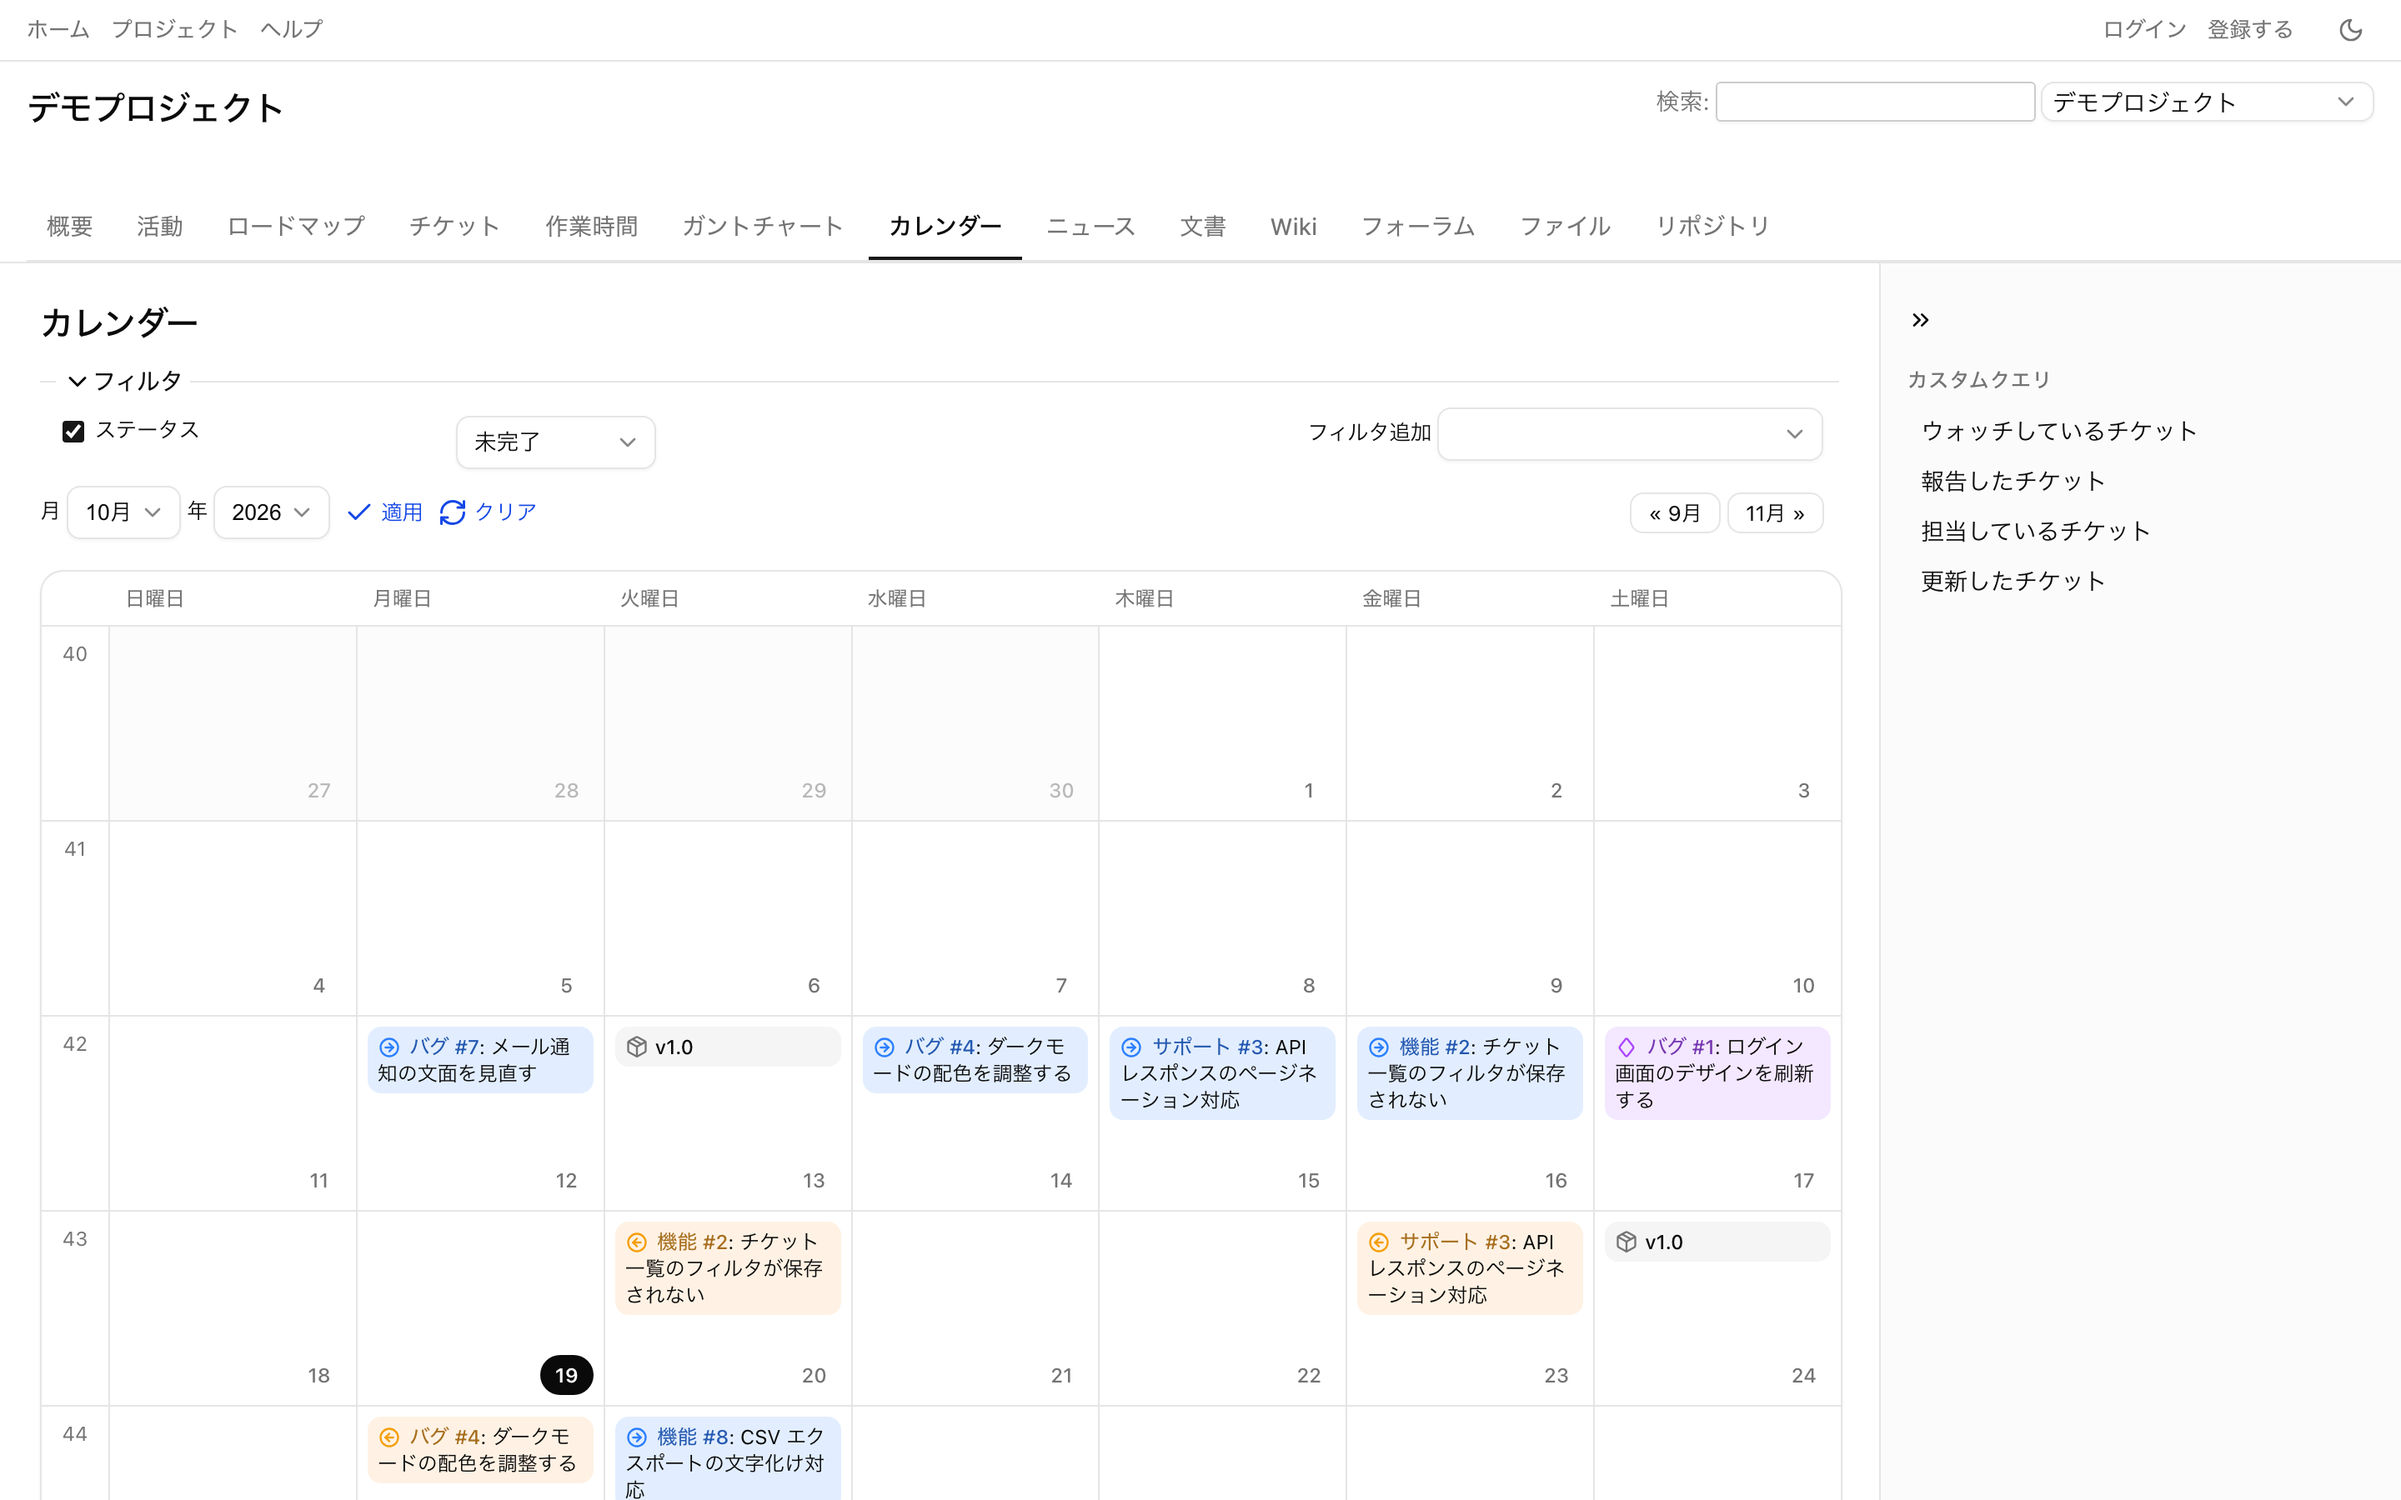
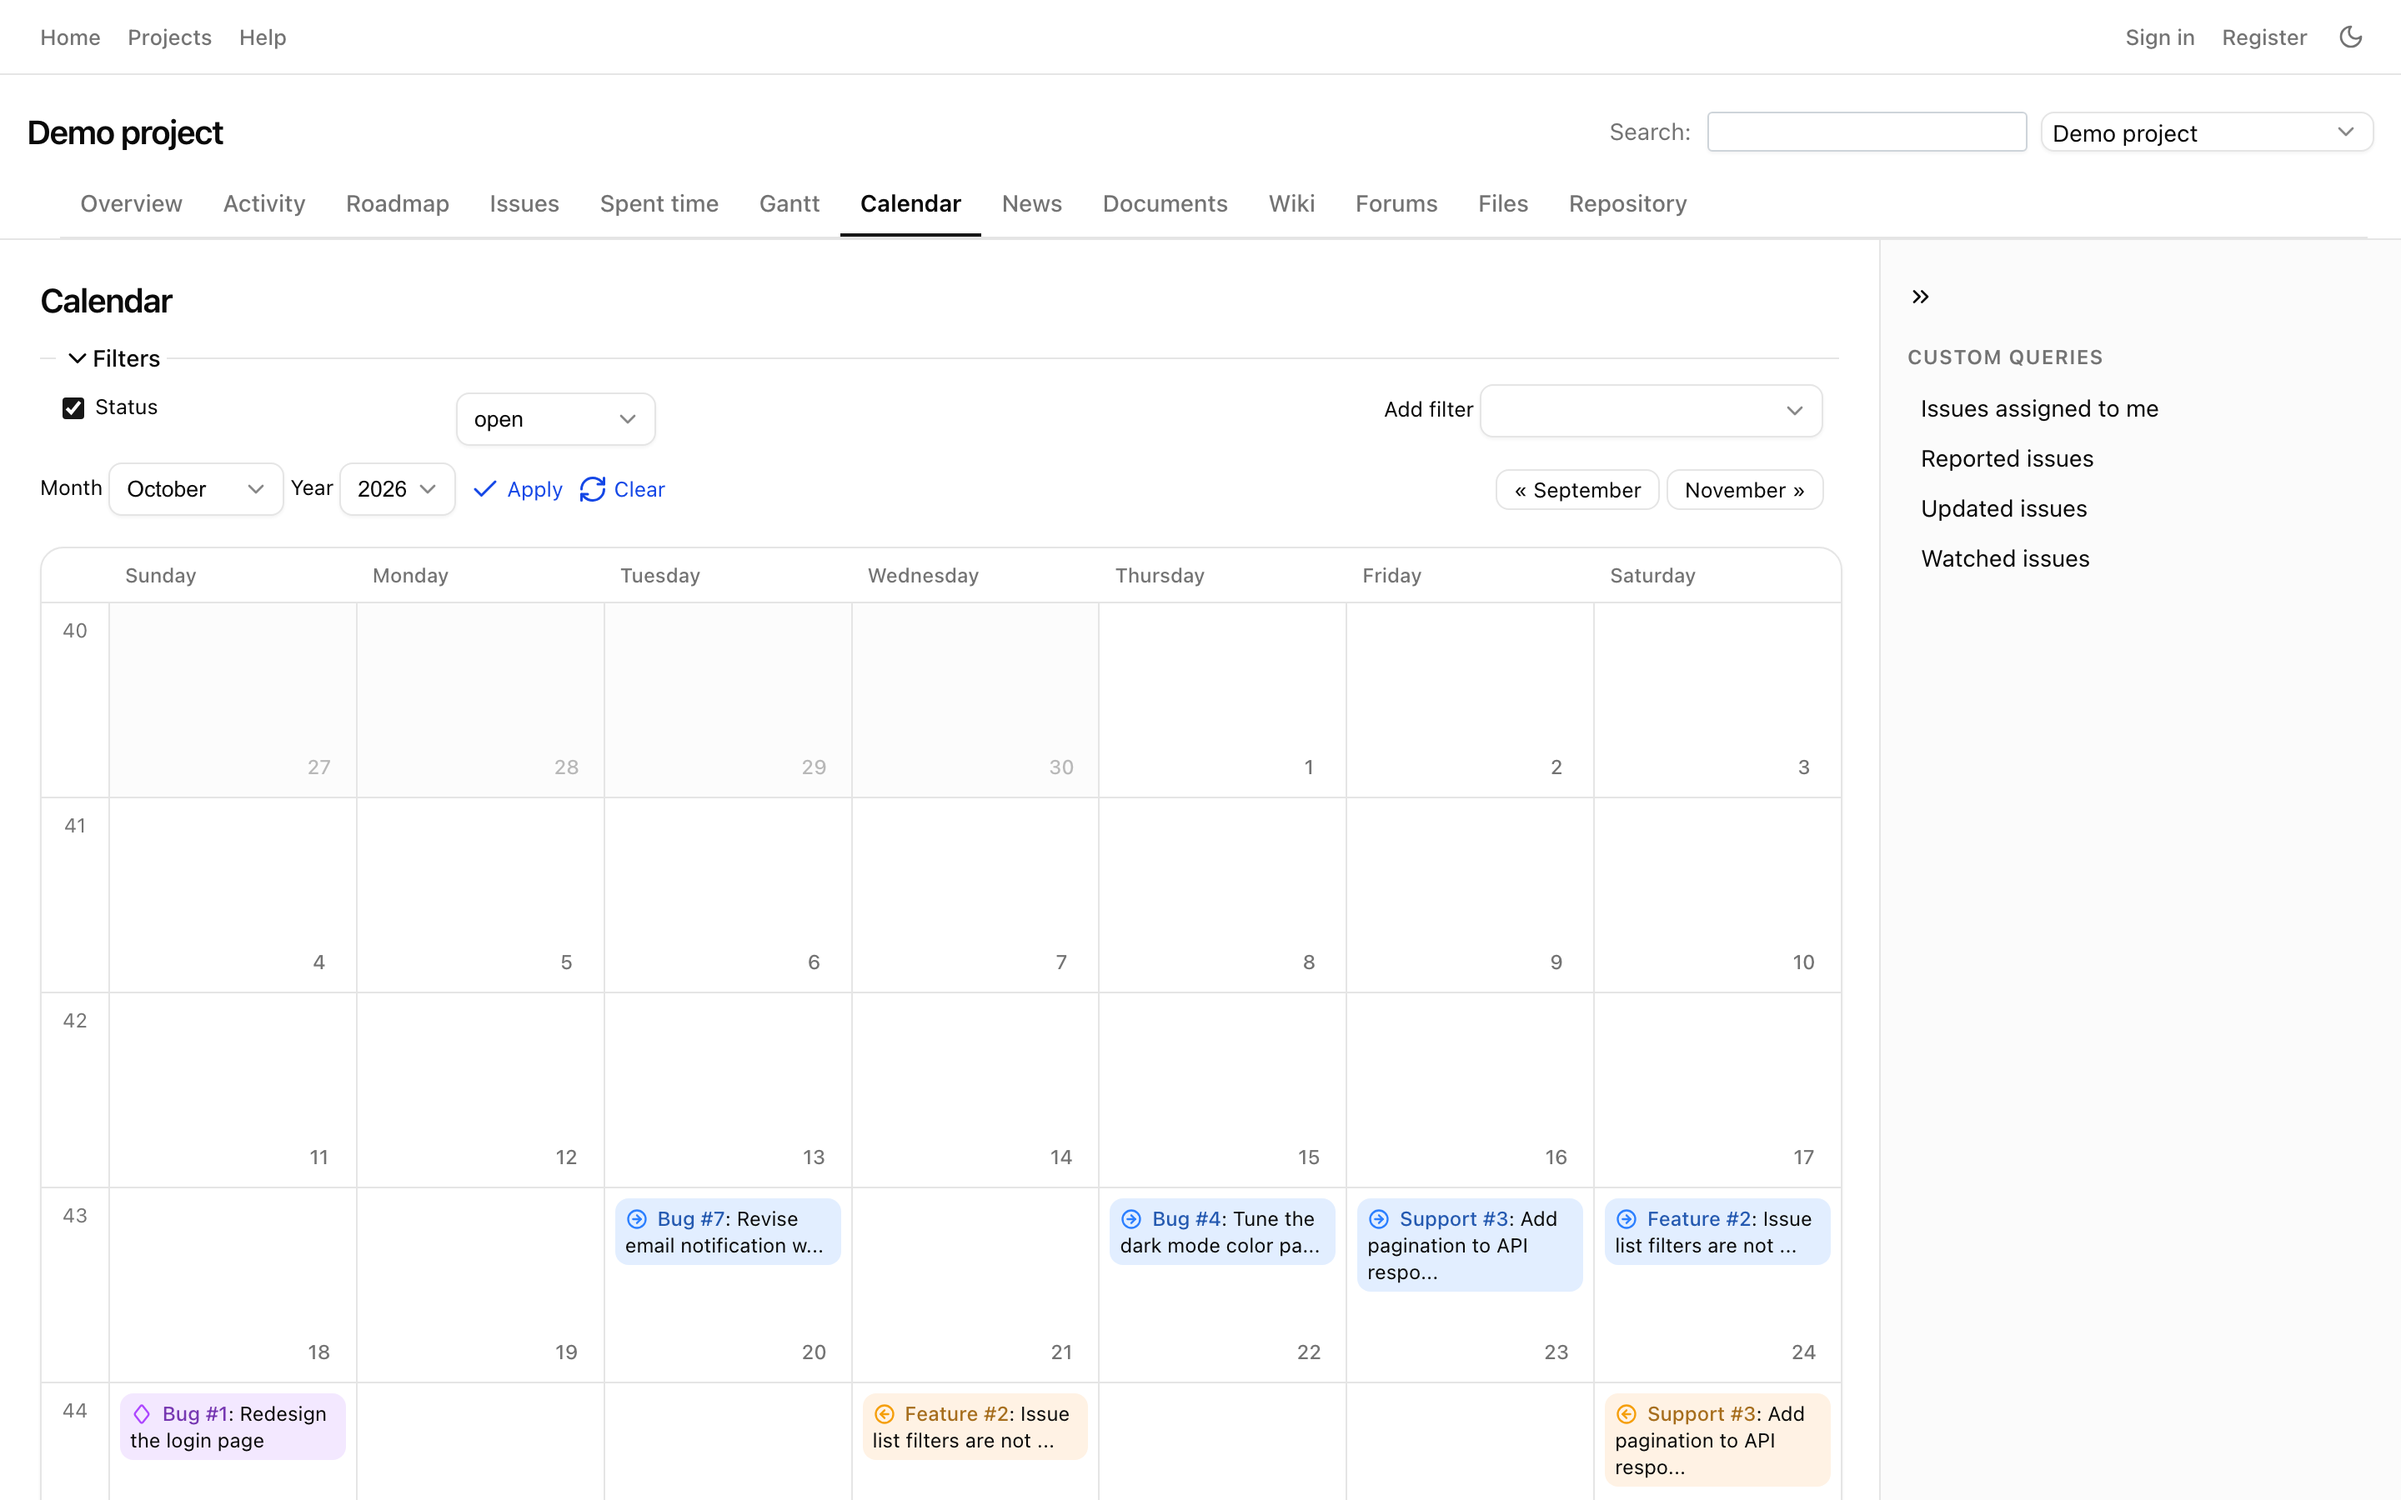
Retake screenshots in English on Redmine 7 and translate sample data

diff --git a/src/tools/seed.rb b/src/tools/seed.rb
@@ -1,23 +1,26 @@
-# ローカル確認用のサンプルデータ
+# Sample data for local testing
 #   docker compose exec -T redmine bundle exec rails runner - < src/tools/seed.rb
+#   docker compose exec -T redmine7 bundle exec rails runner - < src/tools/seed.rb
+#
+# Safe to run more than once: each block only runs when its data is missing.
 
-Redmine::DefaultData::Loader.load('ja') unless Tracker.exists?
+Redmine::DefaultData::Loader.load('en') unless Tracker.exists?
 
 admin = User.find_by_login('admin')
 admin.password = admin.password_confirmation = 'admin1234'
 admin.must_change_passwd = false
-admin.language = 'ja'
+admin.language = 'en'
 admin.save!
 
 Setting.ui_theme = 'shadcn'
-Setting.default_language = 'ja'
+Setting.default_language = 'en'
 Setting.text_formatting = 'common_mark'
 Setting.rest_api_enabled = '1'
 
 project = Project.find_by_identifier('demo') || Project.create!(
-  name: 'デモプロジェクト',
+  name: 'Demo project',
   identifier: 'demo',
-  description: "shadcn テーマの見た目確認用プロジェクト。\n\n- チケット一覧\n- Wiki\n- ガントチャート",
+  description: "A project for previewing the shadcn theme.\n\n- Issues\n- Wiki\n- Gantt chart",
   is_public: true,
   enabled_module_names: Redmine::AccessControl.available_project_modules.map(&:to_s),
   trackers: Tracker.all
@@ -27,14 +30,14 @@ if project.issues.empty?
   statuses = IssueStatus.all.to_a
   priorities = IssuePriority.all.to_a
   [
-    'ログイン画面のデザインを刷新する',
-    'チケット一覧のフィルタが保存されない',
-    'API レスポンスのページネーション対応',
-    'ダークモードの配色を調整する',
-    'Wiki のマークダウンプレビューが崩れる',
-    'ガントチャートの印刷レイアウト',
-    'メール通知の文面を見直す',
-    'CSV エクスポートの文字化け対応'
+    'Redesign the login page',
+    'Issue list filters are not saved',
+    'Add pagination to API responses',
+    'Tune the dark mode color palette',
+    'Wiki markdown preview is broken',
+    'Print layout for the Gantt chart',
+    'Revise email notification wording',
+    'Fix garbled characters in CSV export'
   ].each_with_index do |subject, i|
     Issue.create!(
       project: project,
@@ -42,7 +45,7 @@ if project.issues.empty?
       author: admin,
       assigned_to: i.even? ? admin : nil,
       subject: subject,
-      description: "## 概要\n\n#{subject}。\n\n```ruby\nputs 'hello'\n```\n\n| 項目 | 値 |\n|---|---|\n| 優先度 | 高 |",
+      description: "## Overview\n\n#{subject}.\n\n```ruby\nputs 'hello'\n```\n\n| Field | Value |\n|---|---|\n| Priority | High |",
       status: statuses[i % statuses.size],
       priority: priorities[i % priorities.size],
       start_date: Date.today - i,
@@ -51,7 +54,7 @@ if project.issues.empty?
     )
   end
   issue = project.issues.first
-  issue.init_journal(admin, 'コメントのサンプルです。`inline code` もあります。')
+  issue.init_journal(admin, 'This is a sample comment with some `inline code`.')
   issue.save!
 end
 
@@ -60,13 +63,13 @@ unless wiki.find_page('Wiki')
   page = WikiPage.new(wiki: wiki, title: 'Wiki')
   page.content = WikiContent.new(
     page: page, author: admin,
-    text: "# Wiki\n\nshadcn テーマの **Wiki** 表示サンプル。\n\n> 引用ブロック\n\n- リスト1\n- リスト2\n\n```js\nconsole.log('hi')\n```"
+    text: "# Wiki\n\nA sample **wiki** page for the shadcn theme.\n\n> A blockquote\n\n- Item 1\n- Item 2\n\n```js\nconsole.log('hi')\n```"
   )
   page.save!
 end
 
 if project.versions.empty?
-  v1 = project.versions.create!(name: 'v1.0', effective_date: Date.today + 7, description: '最初のリリース')
+  v1 = project.versions.create!(name: 'v1.0', effective_date: Date.today + 7, description: 'First release')
   v2 = project.versions.create!(name: 'v1.1', effective_date: Date.today + 30)
   project.issues.order(:id).each_with_index do |issue, i|
     issue.update!(fixed_version: i < 5 ? v1 : v2)
@@ -82,13 +85,13 @@ if TimeEntry.where(project: project).empty?
         hours: [0.5, 1, 1.5, 2, 3][(i + n) % 5],
         spent_on: Date.today - (i + n),
         activity: activities[(i + n) % activities.size],
-        comments: "#{issue.subject} の作業"
+        comments: "Work on: #{issue.subject}"
       )
     end
   end
 end
 
-# ガントの関連線・親チケットの確認用
+# Issue relations and a parent issue, to check the Gantt chart
 issues = project.issues.order(:id).to_a
 if IssueRelation.where(issue_from: issues).empty?
   IssueRelation.create!(issue_from: issues[3], issue_to: issues[7], relation_type: 'precedes')
@@ -100,34 +103,34 @@ end
 
 if project.news.empty?
   news = News.create!(
-    project: project, author: admin, title: 'v1.0 をリリースしました',
-    summary: 'shadcn テーマ対応版のリリースです',
-    description: "## 変更点\n\n- テーマを刷新\n- ダークモード対応\n\n詳しくは Wiki を参照してください。"
+    project: project, author: admin, title: 'v1.0 released',
+    summary: 'The release with the new shadcn theme',
+    description: "## What's new\n\n- New theme\n- Dark mode\n\nSee the wiki for details."
   )
-  news.comments.create!(author: admin, content: 'おめでとうございます！')
-  News.create!(project: project, author: admin, title: 'メンテナンスのお知らせ', description: '来週末にサーバのメンテナンスを行います。')
+  news.comments.create!(author: admin, content: 'Congratulations!')
+  News.create!(project: project, author: admin, title: 'Scheduled maintenance', description: 'The server will be under maintenance next weekend.')
 end
 
 if project.boards.empty?
-  board = project.boards.create!(name: '雑談', description: '何でも気軽にどうぞ')
-  project.boards.create!(name: '要望', description: '機能の要望はこちら')
-  topic = board.messages.create!(author: admin, subject: 'テーマの感想', content: "新しいテーマどうですか？\n\n> 引用もできます")
-  topic.children.create!(board: board, author: admin, subject: 'RE: テーマの感想', content: 'いい感じです！')
+  board = project.boards.create!(name: 'General', description: 'Talk about anything')
+  project.boards.create!(name: 'Feature requests', description: 'Ideas for new features')
+  topic = board.messages.create!(author: admin, subject: 'Thoughts on the new theme', content: "What do you think of the new theme?\n\n> Quotes work too")
+  topic.children.create!(board: board, author: admin, subject: 'RE: Thoughts on the new theme', content: 'Looks great!')
 end
 
-# Git リポジトリ（差分表示の確認用）
+# Git repository, to check the diff view
 repo_path = '/usr/src/redmine/files/demo-repo'
 unless File.directory?(repo_path)
   work = "#{repo_path}-work"
   sh = ->(cmd) { system(cmd, exception: true) }
   sh.("git init -q -b main #{work}")
   git = "git -C #{work} -c user.name='Redmine Admin' -c user.email=admin@example.net"
-  File.write("#{work}/README.md", "# Demo\n\nサンプルリポジトリ\n")
+  File.write("#{work}/README.md", "# Demo\n\nA sample repository\n")
   File.write("#{work}/app.rb", "class App\n  def hello\n    puts 'hello'\n  end\nend\n")
   sh.("#{git} add -A && #{git} commit -q -m 'Initial commit'")
-  File.write("#{work}/app.rb", "class App\n  # 挨拶する\n  def hello(name = 'world')\n    puts \"hello, \#{name}\"\n  end\n\n  def bye\n    puts 'bye'\n  end\nend\n")
-  File.write("#{work}/README.md", "# Demo\n\nサンプルリポジトリ\n\n## 使い方\n\n`ruby app.rb`\n")
-  sh.("#{git} add -A && #{git} commit -q -m 'hello に引数を追加 refs #1'")
+  File.write("#{work}/app.rb", "class App\n  # Say hello\n  def hello(name = 'world')\n    puts \"hello, \#{name}\"\n  end\n\n  def bye\n    puts 'bye'\n  end\nend\n")
+  File.write("#{work}/README.md", "# Demo\n\nA sample repository\n\n## Usage\n\n`ruby app.rb`\n")
+  sh.("#{git} add -A && #{git} commit -q -m 'Add a name argument to hello refs #1'")
   sh.("git clone -q --bare #{work} #{repo_path}")
 end
 unless project.repository
